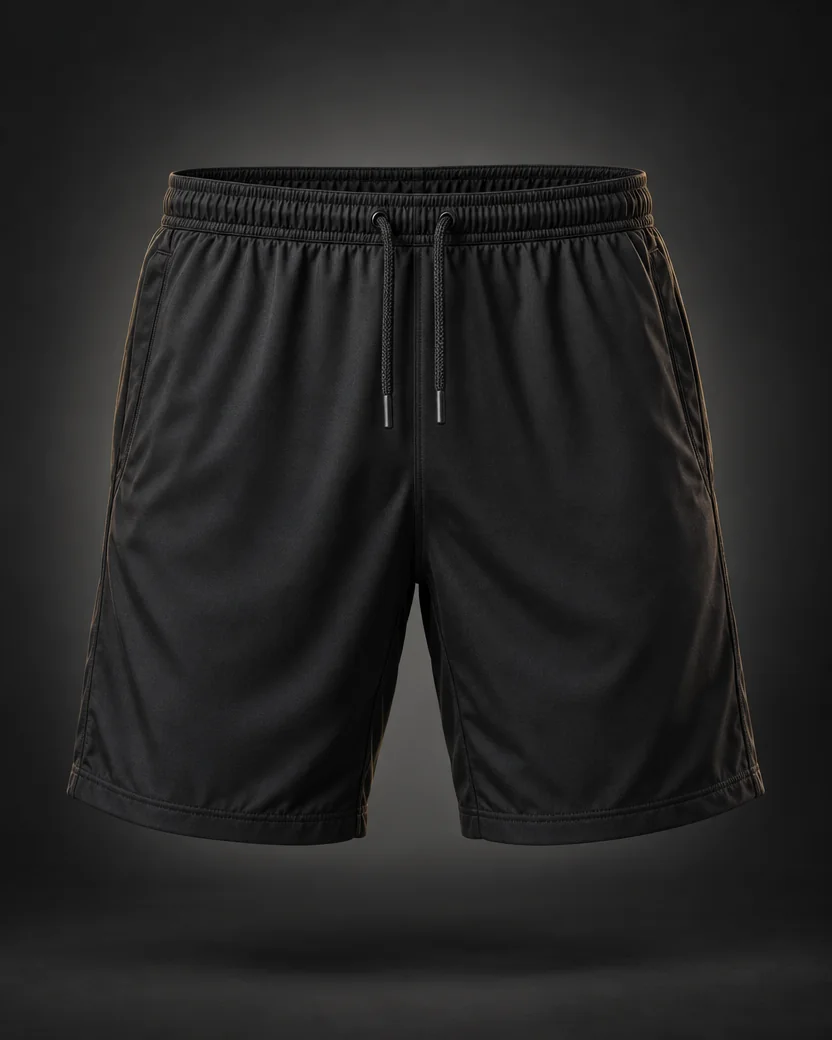
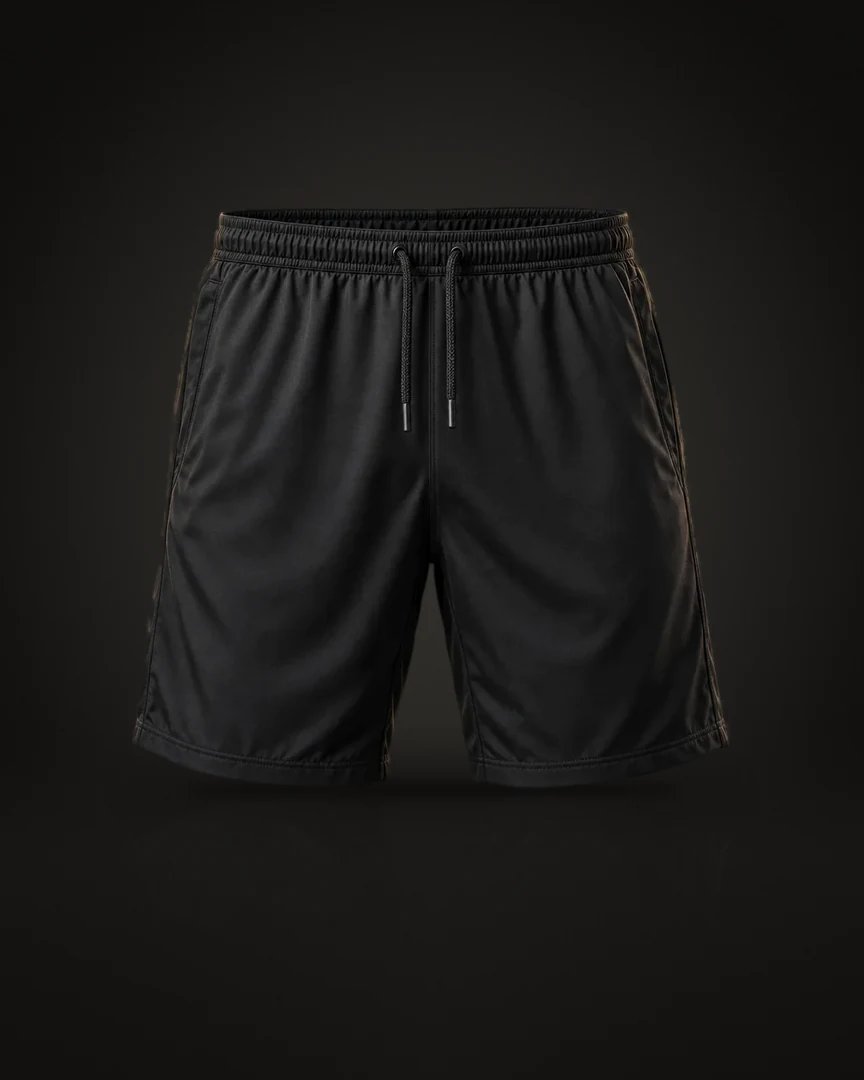
Todas las fotos con el mismo fondo de estudio
- La Belle, Red Door, Halloween y Ana Abiyedh recortados por partes (contornos a mano)
- Fotos con el producto cortado por el borde (Decadent, Asad, Toy 2, Odyssey, Bharara,
  body splash, Centella y short de mujer) fundidas en el estudio con un óvalo de luz
- Remera, conjunto y short de hombre recortados sobre el mismo fondo
- Medidas de las 33 fotos sincronizadas (864x1080)

diff --git a/productos.js b/productos.js
@@ -365,8 +365,8 @@ window.AUVIN_PRODUCTOS = [
       "Sándalo"
     ],
     "img": "img/la-belle-le-parfum.webp",
-    "w": 579,
-    "h": 771,
+    "w": 864,
+    "h": 1080,
     "pos": "50% 50%",
     "precio": "",
     "agotado": false,
@@ -451,8 +451,8 @@ window.AUVIN_PRODUCTOS = [
       "Sándalo"
     ],
     "img": "img/red-door.webp",
-    "w": 579,
-    "h": 771,
+    "w": 864,
+    "h": 1080,
     "pos": "50% 50%",
     "precio": "",
     "agotado": false,
@@ -526,8 +526,8 @@ window.AUVIN_PRODUCTOS = [
     "heart": [],
     "base": [],
     "img": "img/asad-zanzibar.webp",
-    "w": 582,
-    "h": 771,
+    "w": 864,
+    "h": 1080,
     "pos": "50% 50%",
     "precio": "",
     "agotado": false,
@@ -780,8 +780,8 @@ window.AUVIN_PRODUCTOS = [
     "heart": [],
     "base": [],
     "img": "img/ana-abiyedh-rouge.webp",
-    "w": 582,
-    "h": 774,
+    "w": 864,
+    "h": 1080,
     "pos": "50% 50%",
     "precio": "",
     "agotado": false,
@@ -853,8 +853,8 @@ window.AUVIN_PRODUCTOS = [
     "heart": [],
     "base": [],
     "img": "img/decadent-dream.webp",
-    "w": 579,
-    "h": 771,
+    "w": 864,
+    "h": 1080,
     "pos": "50% 50%",
     "precio": "",
     "agotado": false,
@@ -884,8 +884,8 @@ window.AUVIN_PRODUCTOS = [
     "heart": [],
     "base": [],
     "img": "img/toy-2-set.webp",
-    "w": 579,
-    "h": 771,
+    "w": 864,
+    "h": 1080,
     "pos": "50% 50%",
     "precio": "",
     "agotado": false,
@@ -915,8 +915,8 @@ window.AUVIN_PRODUCTOS = [
     "heart": [],
     "base": [],
     "img": "img/halloween.webp",
-    "w": 579,
-    "h": 771,
+    "w": 864,
+    "h": 1080,
     "pos": "50% 50%",
     "precio": "",
     "agotado": false,
@@ -977,8 +977,8 @@ window.AUVIN_PRODUCTOS = [
     "heart": [],
     "base": [],
     "img": "img/bharara-king.webp",
-    "w": 579,
-    "h": 720,
+    "w": 864,
+    "h": 1080,
     "pos": "50% 50%",
     "precio": "",
     "agotado": false,
@@ -1008,8 +1008,8 @@ window.AUVIN_PRODUCTOS = [
     "heart": [],
     "base": [],
     "img": "img/odyssey-mandarin-sky-elixir.webp",
-    "w": 579,
-    "h": 771,
+    "w": 864,
+    "h": 1080,
     "pos": "50% 50%",
     "precio": "",
     "agotado": false,
@@ -1039,8 +1039,8 @@ window.AUVIN_PRODUCTOS = [
     "heart": [],
     "base": [],
     "img": "img/vs-body-splash.webp",
-    "w": 579,
-    "h": 774,
+    "w": 864,
+    "h": 1080,
     "pos": "50% 50%",
     "precio": "",
     "agotado": false,
@@ -1070,8 +1070,8 @@ window.AUVIN_PRODUCTOS = [
     "heart": [],
     "base": [],
     "img": "img/centella.webp",
-    "w": 579,
-    "h": 774,
+    "w": 864,
+    "h": 1080,
     "pos": "50% 50%",
     "precio": "",
     "agotado": false,
@@ -1092,8 +1092,8 @@ window.AUVIN_PRODUCTOS = [
     "heart": [],
     "base": [],
     "img": "img/ropa-remera-fabricio.webp",
-    "w": 832,
-    "h": 1040,
+    "w": 864,
+    "h": 1080,
     "pos": "50% 50%",
     "precio": "$ 28.000",
     "agotado": false,
@@ -1114,8 +1114,8 @@ window.AUVIN_PRODUCTOS = [
     "heart": [],
     "base": [],
     "img": "img/ropa-conjunto-deportivo.webp",
-    "w": 832,
-    "h": 1040,
+    "w": 864,
+    "h": 1080,
     "pos": "50% 50%",
     "precio": "$ 35.799,99",
     "agotado": false,
@@ -1136,8 +1136,8 @@ window.AUVIN_PRODUCTOS = [
     "heart": [],
     "base": [],
     "img": "img/ropa-short-jotaele.webp",
-    "w": 832,
-    "h": 1040,
+    "w": 864,
+    "h": 1080,
     "pos": "50% 50%",
     "precio": "$ 25.299,99",
     "agotado": false,
@@ -1158,8 +1158,8 @@ window.AUVIN_PRODUCTOS = [
     "heart": [],
     "base": [],
     "img": "img/ropa-short-poliamida.webp",
-    "w": 832,
-    "h": 1040,
+    "w": 864,
+    "h": 1080,
     "pos": "50% 50%",
     "precio": "$ 18.300",
     "agotado": false,
